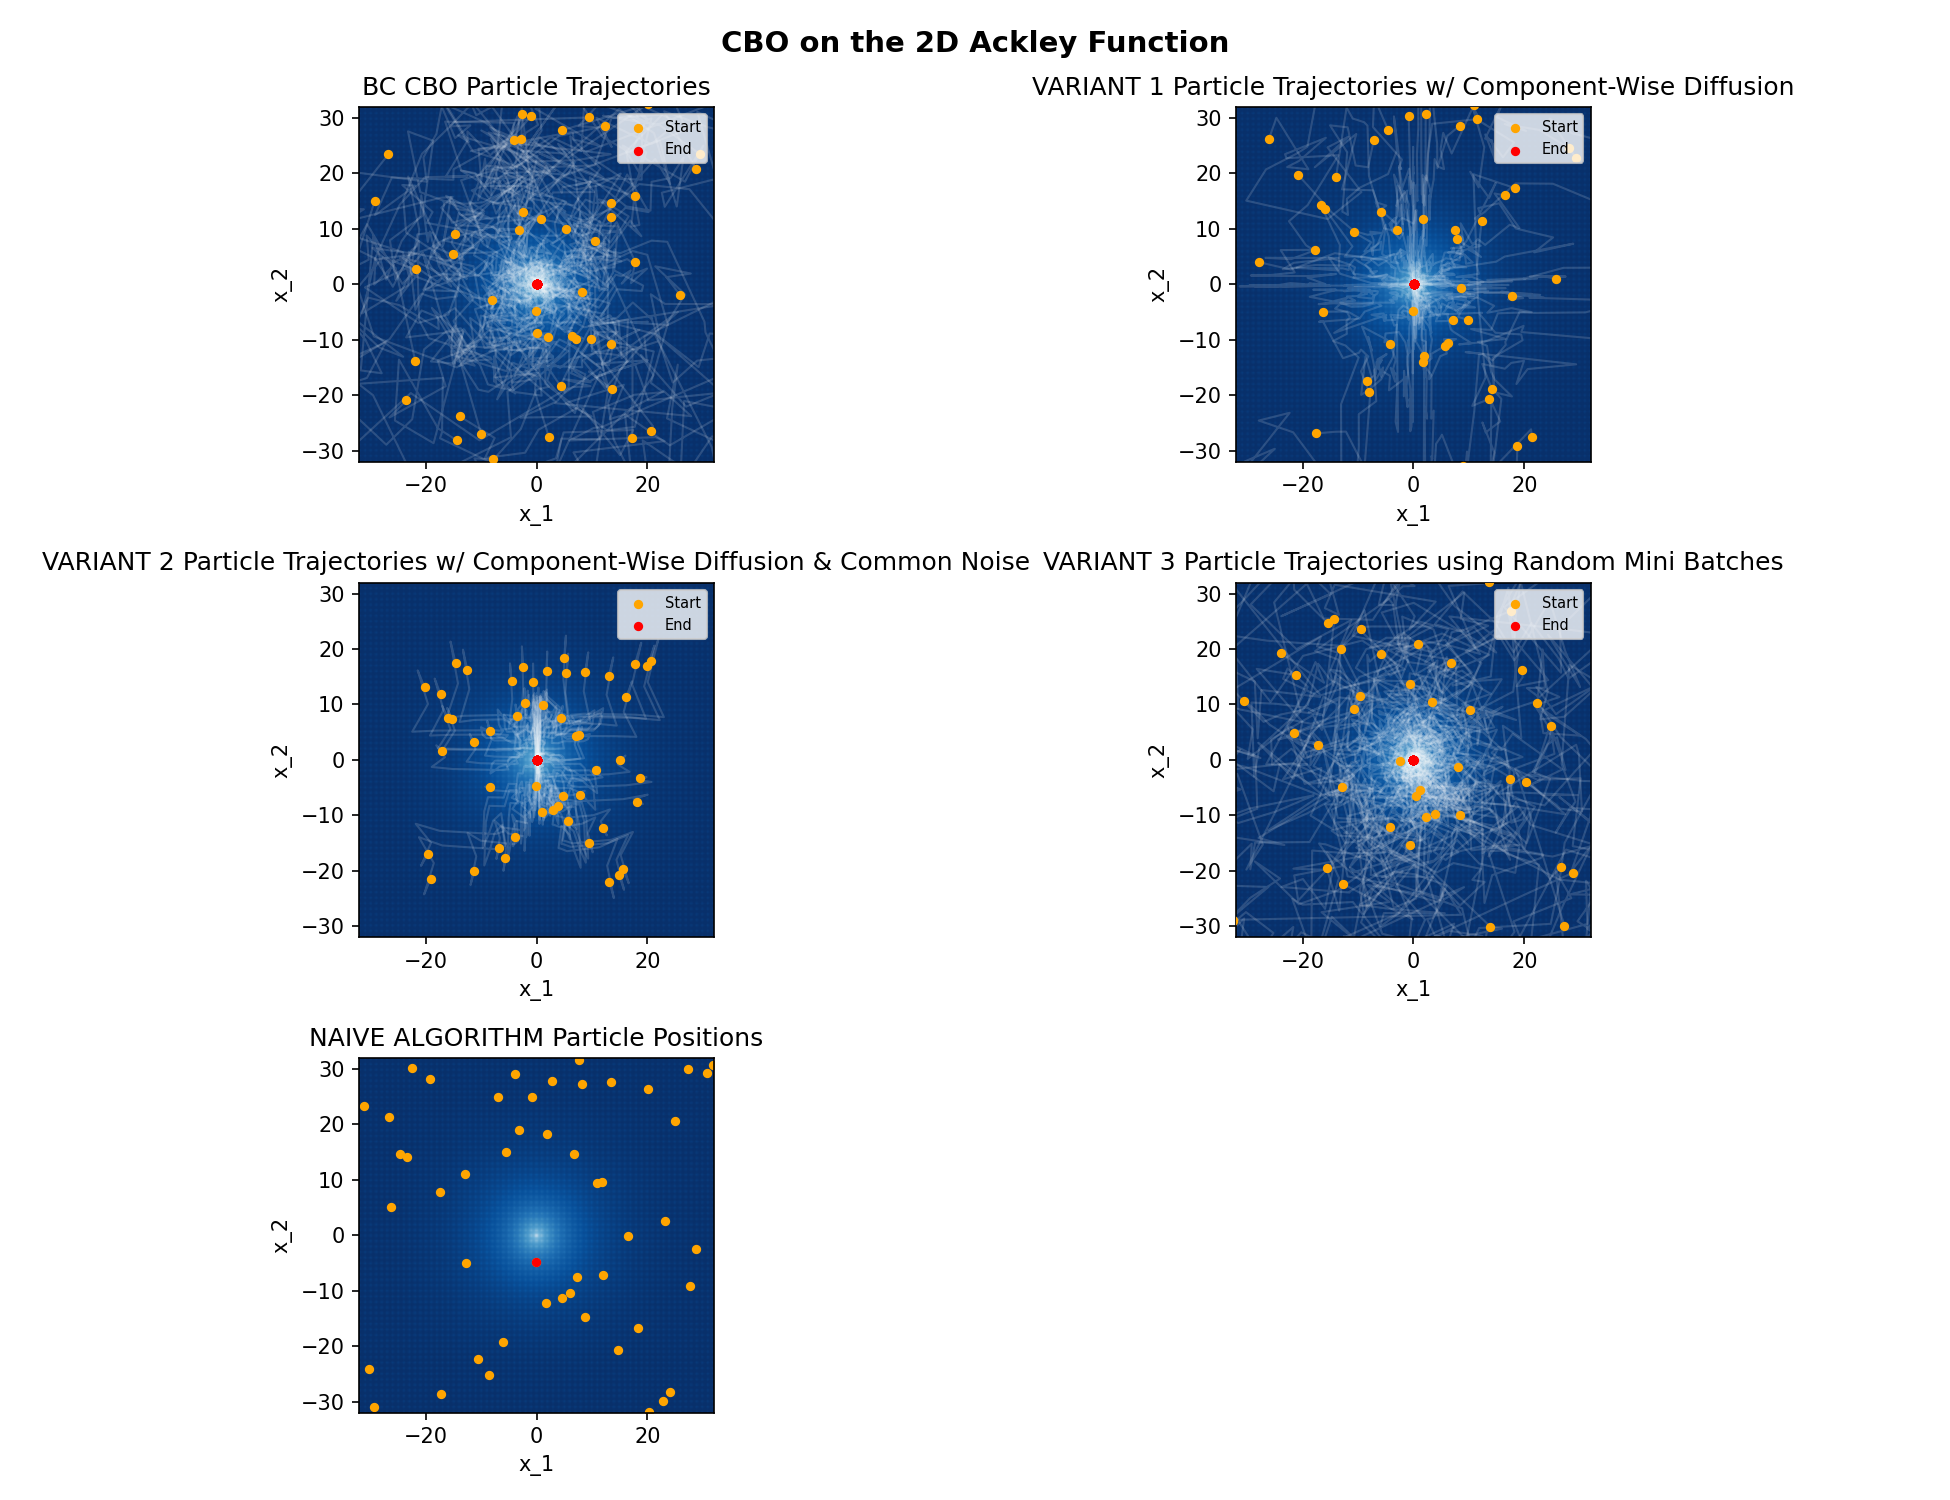
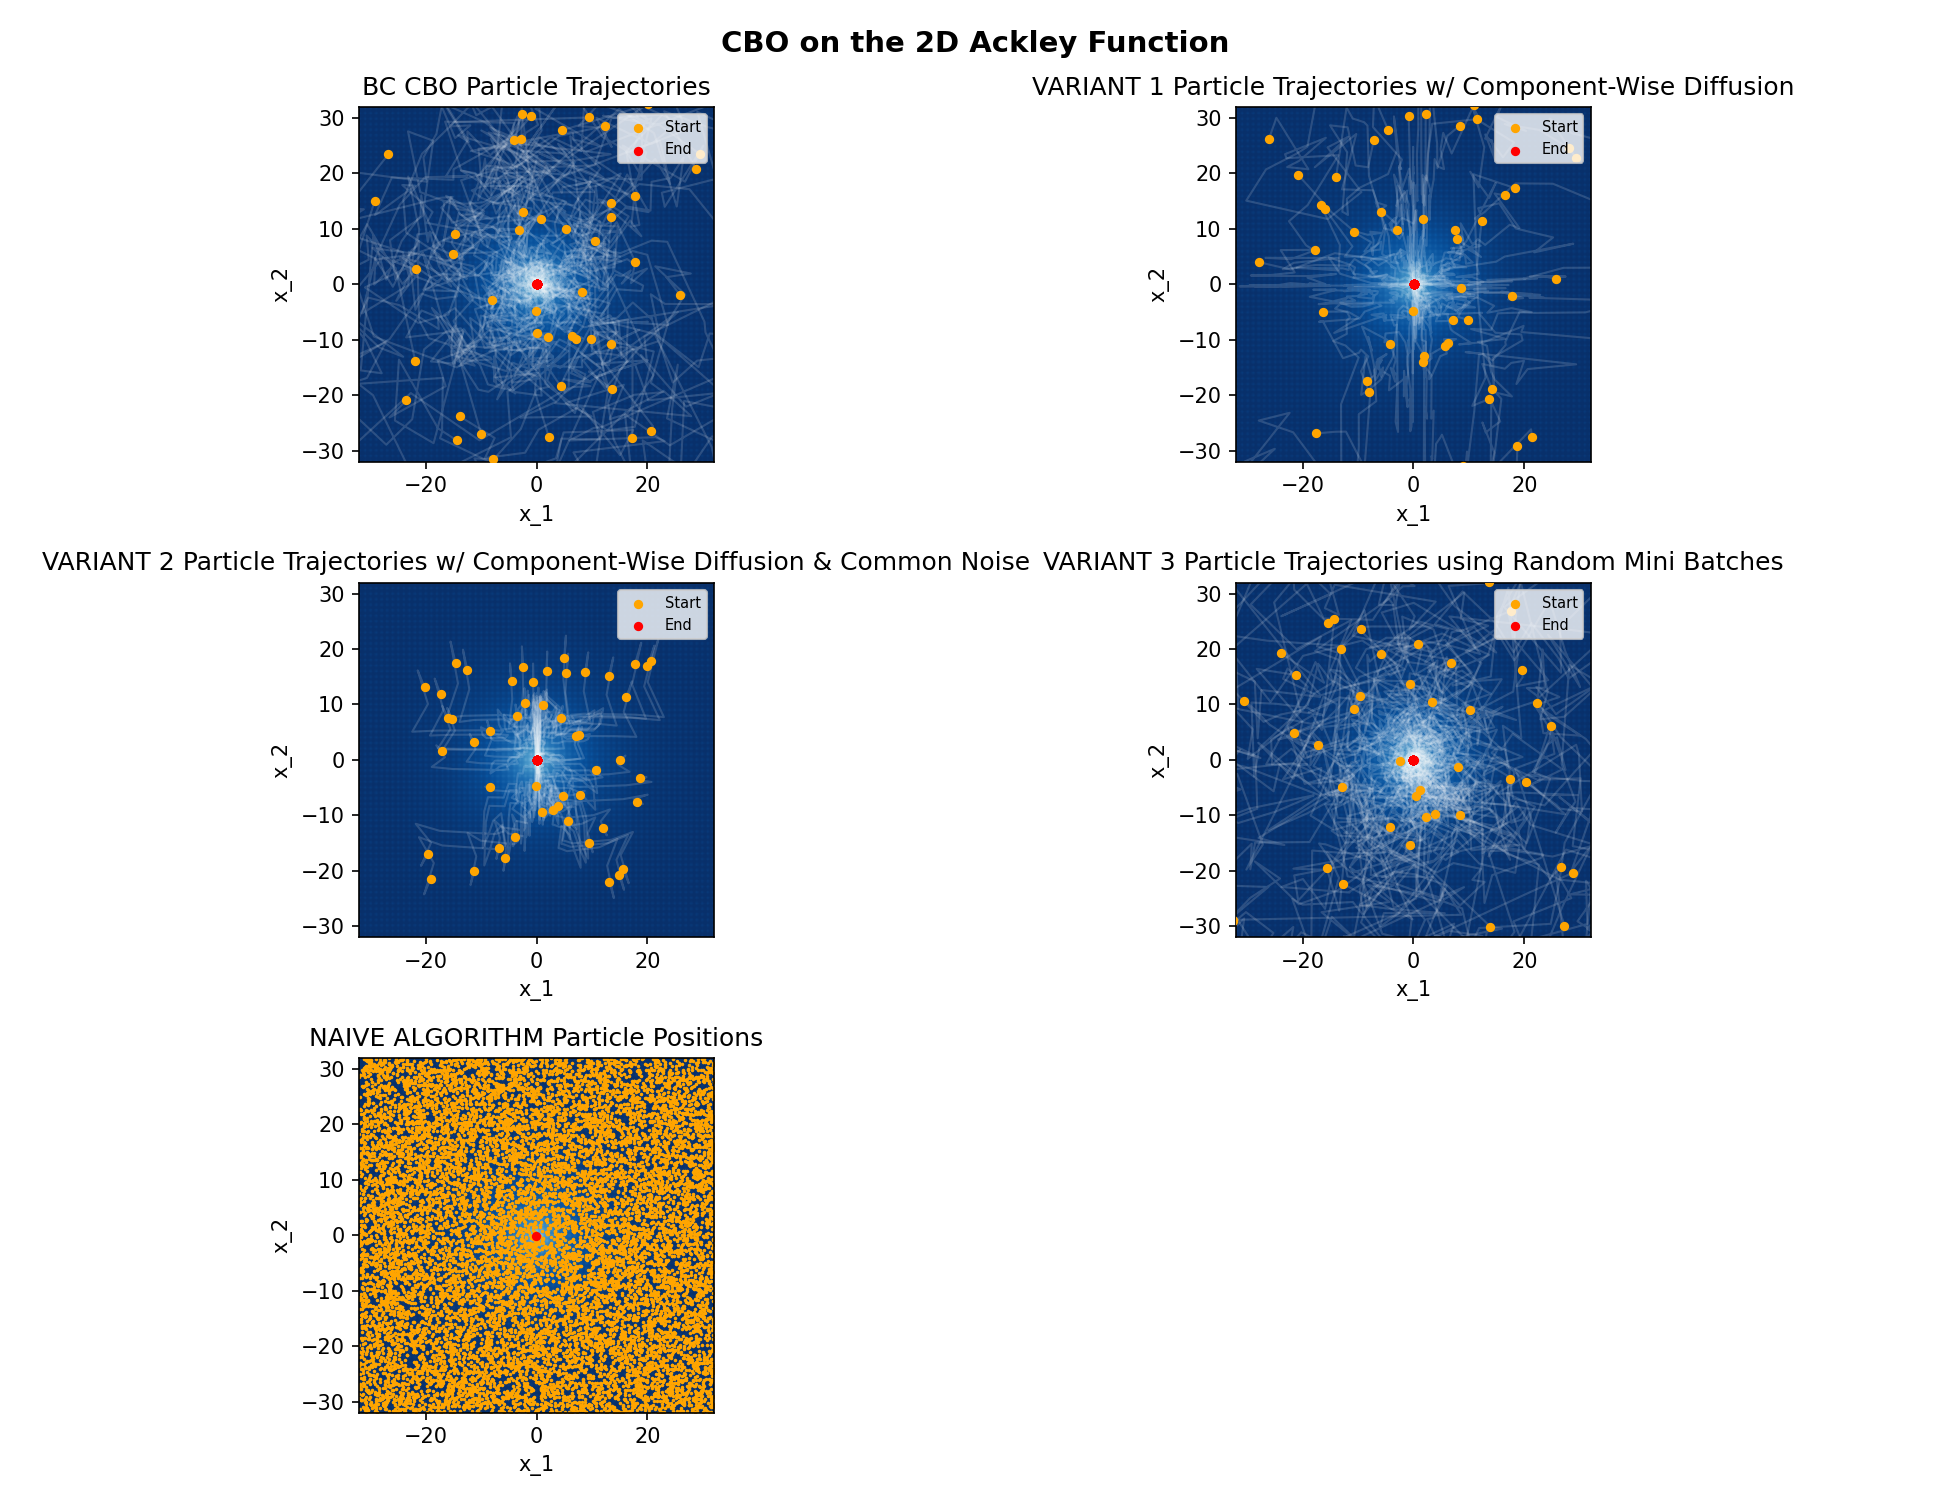
naive algorithm comparison adjustment

Changed region(s): [[0.1846, 0.7053, 0.3692, 0.9507]]

diff --git a/bc_algorithms.py b/bc_algorithms.py
@@ -17,22 +17,6 @@ def ackley(x): # x = (x_1, x_2, ..., x_n)
     # return result of Ackley function (np array of values)
     return -a*np.exp(-b*np.sqrt(sum_sq)) - np.exp(sum_cos) + a + np.exp(1)
 
-# cbo on the first iteration
-def naive(f):
-    rng = np.random.default_rng(0) # set up seeded random num generator
-    lo, hi = -32, 32
-    x = rng.uniform(lo, hi, size=(50, 2)) # x = (x_1, x_2, ..., x_n)
-
-    f_vals = f(x)
-    best_idx = np.argmin(f_vals) # index of lowest f val
-
-    # Variance history
-    mean = x.mean(axis=0) # expectation: average all part points
-    v = 0.5*np.mean(np.sum((x-mean)**2, axis=1)) # variance
-
-    # return best part pos, best obj val, num of iterations
-    return (x[best_idx], f_vals[best_idx], np.array(x), np.array(f_vals), len(f_vals), v)
-
 def consensus_point(x, f_vals, alpha):
     weights = np.exp(-alpha*f_vals) # weight function
     weights = weights / weights.sum() # weigh each particle accordingly
@@ -106,6 +90,25 @@ def cbo(f, d, domain=(-32,32), n_particles=50, lam=1.0, sigma=1.0, alpha=30.0, d
 
     return (x[best_idx], best_val_hist[-1], np.array(consensus_hist), np.array(particle_hist), np.array(obj_val_hist), np.array(best_val_hist), np.array(variance_hist))
 
+def naive(f, d, domain=(-32,32), n_particles=50):
+    _, _, consensus_hist, _, _, _, _ = cbo(f, d)
+    n_iters = len(consensus_hist)
+
+    rng = np.random.default_rng(0) # set up seeded random num generator
+    lo, hi = domain
+    comp_cost = n_particles * n_iters
+    x = rng.uniform(lo, hi, size=(comp_cost, d)) # x = (x_1, x_2, ..., x_n)
+
+    f_vals = f(x)
+    best_idx = np.argmin(f_vals) # index of lowest f val
+
+    # Variance history
+    mean = x.mean(axis=0) # expectation: average all part points
+    v = 0.5*np.mean(np.sum((x-mean)**2, axis=1)) # variance
+
+    # return best part pos, best obj val, num of iterations
+    return (x[best_idx], f_vals[best_idx], np.array(x), np.array(f_vals), len(f_vals), v)
+
 if __name__ == "__main__": # runs when this is the main file of this execution
     print("BASE CASE CBO")
 
@@ -120,10 +123,11 @@ if __name__ == "__main__": # runs when this is the main file of this execution
     print("---------------------------------------")
     print("NAIVE ALGORITHM RESULTS")
 
-    best_x_naive, best_val_naive, x_positions_naive, f_vals_naive, n_part_naive, variance = naive(ackley)
+    best_x_naive, best_val_naive, x_positions_naive, f_vals_naive, n_part_naive, variance = naive(ackley, d=2)
 
     print(f"Best x position found: {best_x_naive}")
     print(f"Best f(x): {best_val_naive:.6f}")
     print(f"Iterations: 0")
     print(f"Variance: {variance}")
     print("True minimum: f(0,0) = 0")
+    print(f"num particles: {len(x_positions_naive)})")

diff --git a/trajectories_plot.py b/trajectories_plot.py
@@ -50,8 +50,8 @@ def naive_part_plot(ax):
     # draw 2d array heatmap
     ax.imshow(Z, extent=[-32, 32, -32, 32], origin="lower", cmap="Blues", aspect="equal", norm=mcolors.PowerNorm(gamma=0.4,vmin=0,vmax=22))
 
-    best_x, best_val, x_positions, f_vals, n_particles = naive(ackley)
-    ax.scatter(x_positions[:,0], x_positions[:,1], color="orange", s=12) # plot individual points
+    best_x, best_val, x_positions, f_vals, n_particles, variance = naive(ackley, d=2)
+    ax.scatter(x_positions[:,0], x_positions[:,1], color="orange", s=0.5) # plot individual points
     ax.scatter(best_x[0], best_x[1], color="red", s=12, label="min f(x)")
 
     ax.set_title("NAIVE ALGORITHM Particle Positions")

diff --git a/obj_val_plot.py b/obj_val_plot.py
@@ -43,7 +43,7 @@ def consensus_hist(ax, consensus_hist):
     ax.grid(alpha=0.3, which="both")
 
 def obj_val_naive(ax):
-    best_x, best_val, x_positions, f_vals, n_particles, variance = naive(ackley)
+    best_x, best_val, x_positions, f_vals, n_particles, variance = naive(ackley, d=2)
     # draw horizontal line to compare best_val to other graphs
     ax.axhline(y=best_val, color="#1D9E75", linestyle="-", linewidth=1.4, label=(f"Best f val: {best_val:.4f}"))
     ax.set_title("NAIVE ALGORITHM Best f(x)")
